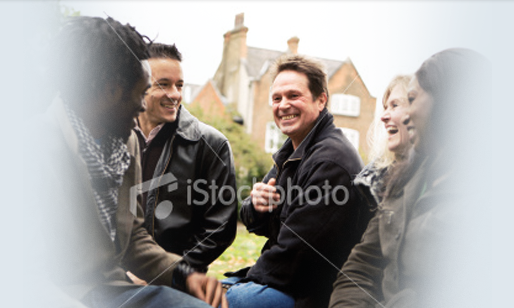
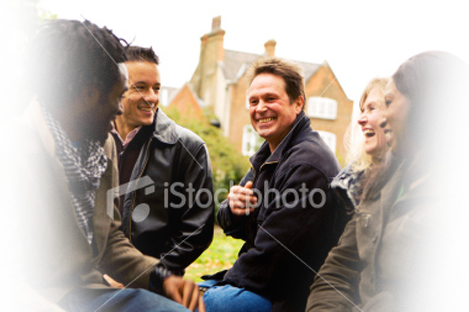
picture on about pg

diff --git a/wp-content/themes/skeleton-theme/about.php b/wp-content/themes/skeleton-theme/about.php
@@ -40,7 +40,7 @@
                 <p>To develop the capacity of the community to respectfully resolve conflict and repair harm.</p>
             </div>            
             <div class="grid-col grid-col-4">
-                Picture here                
+                <img src="/assets/images/homepage_hero.png" />            
             </div>              
         </div>
     </div>
